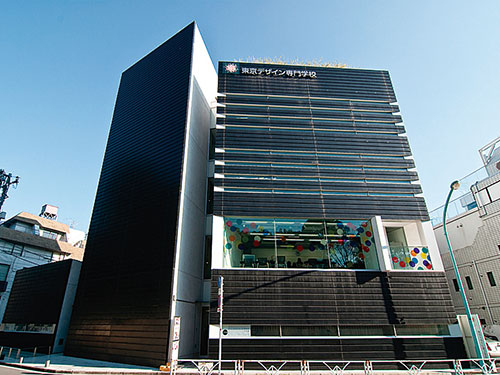
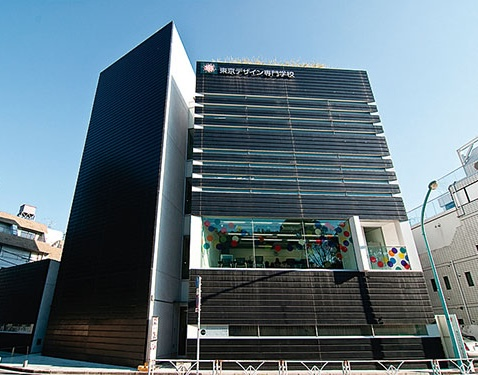
クラス名など細かな修正

diff --git a/css/style.css b/css/style.css
@@ -76,16 +76,6 @@ ol {
     margin: 0;
 }
 
-h2 {
-    font-size: var(--font-size-400);
-    letter-spacing: var(--letter-spacing-200);
-}
-
-h3 {
-    font-size: var(--font-size-300);
-    letter-spacing: var(--letter-spacing-300);
-}
-
 img {
     max-width: 100%;
     height: auto;
@@ -212,16 +202,17 @@ address {
 .p-about-hero {
     display: grid;
     grid-template-columns: minmax(700px, 1fr) 430px;
+    height: 460px;
     gap: var(--spacing-500);
     padding-inline: var(--spacing-600);
 }
 
-.p-about-hero__main-panel {
+.p-about-hero__profile-panel {
     display: grid;
-    grid-template-columns: 350px minmax(400px, 1fr);
+    grid-template-columns: 300px minmax(40px, 1fr);
     gap: var(--spacing-200);
     align-items: stretch;
-    background: linear-gradient(135deg, #ffffff 0%, #f7f7f7 100%);
+    background: linear-gradient(135deg, #f0efef 0%, #f7f7f7 100%);
     border: 1px solid rgba(0, 0, 0, 0.16);
     border-radius: var(--radius-300);
     overflow: hidden;
@@ -234,8 +225,37 @@ address {
     padding-left: var(--spacing-600);
 }
 
+.p-about-hero__name-en {
+    margin: 0 0 var(--spacing-100);
+    font-size: var(--font-size-200);
+    font-weight: 400;
+    letter-spacing: var(--letter-spacing-400);
+    color: var(--color-text-sub);
+}
+
+.p-about-hero__name-ja {
+    margin: 0;
+    font-size: var(--font-size-750);
+    letter-spacing: var(--letter-spacing-100);
+    line-height: 1;
+    color: var(--color-text-main);
+}
+
+.p-about-hero__meta-group {
+    margin-top: var(--spacing-400);
+}
+
+.p-about-hero__meta {
+    margin: 0;
+    font-size: var(--font-size-200);
+    line-height: 1.7;
+    letter-spacing: var(--letter-spacing-300);
+    color: var(--color-text-sub);
+}
+
 .p-about-hero__media {
-    min-height: 400px;
+    height: 100%;
+    min-height: 0;
     overflow: hidden;
     border-radius: var(--radius-300);
     box-shadow: 0 18px 45px rgba(0, 0, 0, 0.16);
@@ -248,54 +268,38 @@ address {
     object-position: center; /* アンカーポイントを中心に */
 }
 
-.p-about-hero__name-en {
-    margin: 0;
-    font-size: var(--font-size-200);
-    font-weight: 400;
-    letter-spacing: var(--letter-spacing-400);
-}
-
-.p-about-hero__name-ja {
-    font-size: var(--font-size-750);
-    letter-spacing: var(--letter-spacing-200);
-    margin: 0;
-    line-height: 1;
-}
-
-.p-about-hero__meta-group {
-    margin-top: var(--spacing-400);
-}
-
-.p-about-hero__meta {
-    margin: 0;
-    font-size: var(--font-size-200);
-    line-height: 1.5;
-    letter-spacing: var(--letter-spacing-300);
+.p-about-hero__strengths {
+    min-height: 0;
 }
 
 .p-about-hero__strength-list {
     display: grid;
+    grid-template-rows: repeat(4, minmax(0, 1fr));
     gap: var(--spacing-300);
+    height: 100%;
+    margin: 0;
+    padding: 0;
 }
 
-.p-about-hero__strength-item {
+.p-about-hero__strength-card {
     display: grid;
     grid-template-columns: minmax(136px, 36%) minmax(0, 1fr);
     gap: var(--spacing-400);
-    background-color: #fff;
+    background: linear-gradient(135deg, #ffffff 0%, #f7f7f7 100%);
     border-radius: var(--radius-300);
     overflow: hidden;
-    min-height: 100px;
 }
 
 .p-about-hero__strength-media {
-    min-height: 90px;
+    width: 100%;
+    min-height: 0;
     overflow: hidden;
     border-radius: var(--radius-300);
     box-shadow: 0 10px 15px rgba(0, 0, 0, 0.16);
 }
 
 .p-about-hero__strength-image {
+    display: block;
     width: 100%;
     height: 100%;
     object-fit: cover;
@@ -325,15 +329,9 @@ address {
 /* works */
 .p-works {
     position: relative;
-    padding-bottom: var(--spacing-900);
+    padding: var(--spacing-600);
     color: var(--color-base-dark);
     overflow: hidden;
-}
-
-.p-works__inner {
-    position: relative;
-    z-index: 1;
-    margin: 0 auto;
 }
 
 .p-works__category + .p-works__category {
@@ -342,13 +340,11 @@ address {
 
 .p-works__category-head {
     display: flex;
-    margin-bottom: var(--spacing-500);
-    padding: var(--spacing-100) var(--spacing-300);
 }
 
 .p-works__category-title {
     margin: 0;
-    color: var(--color-base-light);
+    color: var(--color-text-main);
     font-size: var(--font-size-600);
     font-weight: 600;
     line-height: 1.5;
@@ -418,7 +414,7 @@ address {
     --career-month-height: 1rem;
     --career-line-color: rgba(51, 51, 51, 0.28);
     color: var(--color-base-dark);
-    margin-inline: calc(var(--spacing-900) * -1);
+    padding: var(--spacing-600);
 }
 
 .p-career__timeline-title {
@@ -435,15 +431,10 @@ address {
     line-height: 1;
 }
 
-.p-career__inner {
-    padding-block: 5rem;
-    padding-inline: var(--spacing-900);
-}
-
 .p-career__body {
     display: grid;
     grid-template-columns: minmax(360px, 0.9fr) minmax(420px, 1fr);
-    column-gap: clamp(3rem, vw, 7rem);
+    column-gap: clamp(3rem, 5vw, 7rem);
 }
 
 .p-career__timeline-list {
@@ -629,22 +620,9 @@ address {
     max-width: 33rem;
 }
 
-.p-career__body:has(.p-career__detail-card--mitsubishi:hover) .p-career__timeline-item--mitsubishi-in::after,
-.p-career__body:has(.p-career__detail-card--mitsubishi:hover) .p-career__timeline-item--2022-01::after,
-.p-career__body:has(.p-career__detail-card--mitsubishi:hover) .p-career__timeline-item--alpha-part::after,
-.p-career__body:has(.p-career__detail-card--mitsubishi:hover) .p-career__timeline-item--2023-01::after,
-.p-career__body:has(.p-career__detail-card--mitsubishi:hover) .p-career__timeline-item--youtube::after,
-.p-career__body:has(.p-career__detail-card--mitsubishi:hover) .p-career__timeline-item--2024-01::after {
-}
-
-.p-career__body:has(.p-career__detail-card--mitsubishi:hover) .p-career__timeline-item--mitsubishi-in::before,
-.p-career__body:has(.p-career__detail-card--mitsubishi:hover) .p-career__timeline-item--mitsubishi-out::before {
-    transform: scale(1.7);
-}
-
 /* Contact */
 .p-contact {
-    padding: var(--spacing-600) 0 var(--spacing-900);
+    padding: var(--spacing-600);
 }
 
 .p-contact__button-wrap {

diff --git a/index.html b/index.html
@@ -53,7 +53,7 @@
 
             <main class="l-main">
                 <section class="p-about-hero" id="about">
-                    <div class="p-about-hero__main-panel">
+                    <div class="p-about-hero__profile-panel">
                         <div class="p-about-hero__body">
                             <p class="p-about-hero__name-en">HONKAWA YUMA</p>
                             <h1 class="p-about-hero__name-ja">本川 悠真</h1>
@@ -70,7 +70,7 @@
 
                     <div class="p-about-hero__strengths">
                         <ul class="p-about-hero__strength-list">
-                            <li class="p-about-hero__strength-item">
+                            <li class="p-about-hero__strength-card">
                                 <div class="p-about-hero__strength-media">
                                     <img
                                         class="p-about-hero__strength-image"
@@ -86,7 +86,7 @@
                                 </div>
                             </li>
 
-                            <li class="p-about-hero__strength-item">
+                            <li class="p-about-hero__strength-card">
                                 <div class="p-about-hero__strength-media">
                                     <img
                                         class="p-about-hero__strength-image"
@@ -102,7 +102,7 @@
                                 </div>
                             </li>
 
-                            <li class="p-about-hero__strength-item">
+                            <li class="p-about-hero__strength-card">
                                 <div class="p-about-hero__strength-media">
                                     <img
                                         class="p-about-hero__strength-image"
@@ -118,18 +118,19 @@
                                 </div>
                             </li>
 
-                            <li class="p-about-hero__strength-item">
+                            <li class="p-about-hero__strength-card">
                                 <div class="p-about-hero__strength-media">
                                     <img
                                         class="p-about-hero__strength-image"
                                         src="images/design.jpg"
-                                        alt="在学中の東京デザイン専門学校の写真"
+                                        alt="品質管理を感じる写真？未定"
                                     />
                                 </div>
                                 <div class="p-about-hero__strength-body">
                                     <p class="p-about-hero__strength-title">品質への責任感</p>
                                     <p class="p-about-hero__strength-text">
                                         前職では製造管理に従事し、ISO・品質規格や環境関連法令を順守し700種類以上の化学薬品の管理など環境業務全般を担当。
+                                    </p>
                                 </div>
                             </li>
 
@@ -139,7 +140,7 @@
 
                 <section class="p-works" id="works">
                     <div class="p-works__inner">
-                        <h2 class="p-section__title p-works__title">Works</h2>
+                        <!-- <h2 class="p-section__title p-works__title">Works</h2> -->
 
                         <section class="p-works__category">
                             <div class="p-works__category-head">
@@ -260,7 +261,7 @@
                 </section>
 
                 <section class="p-career" id="career">
-                    <div class="p-career__inner">
+                    
                         <div class="p-career__heading">
                             <h2 class="p-section__title p-career__title">Career</h2>
                         </div>
@@ -415,7 +416,7 @@
                                 </article>
                             </div>
                         </div>
-                    </div>
+                    
                 </section>
 
                 <section class="p-contact" id="contact">
